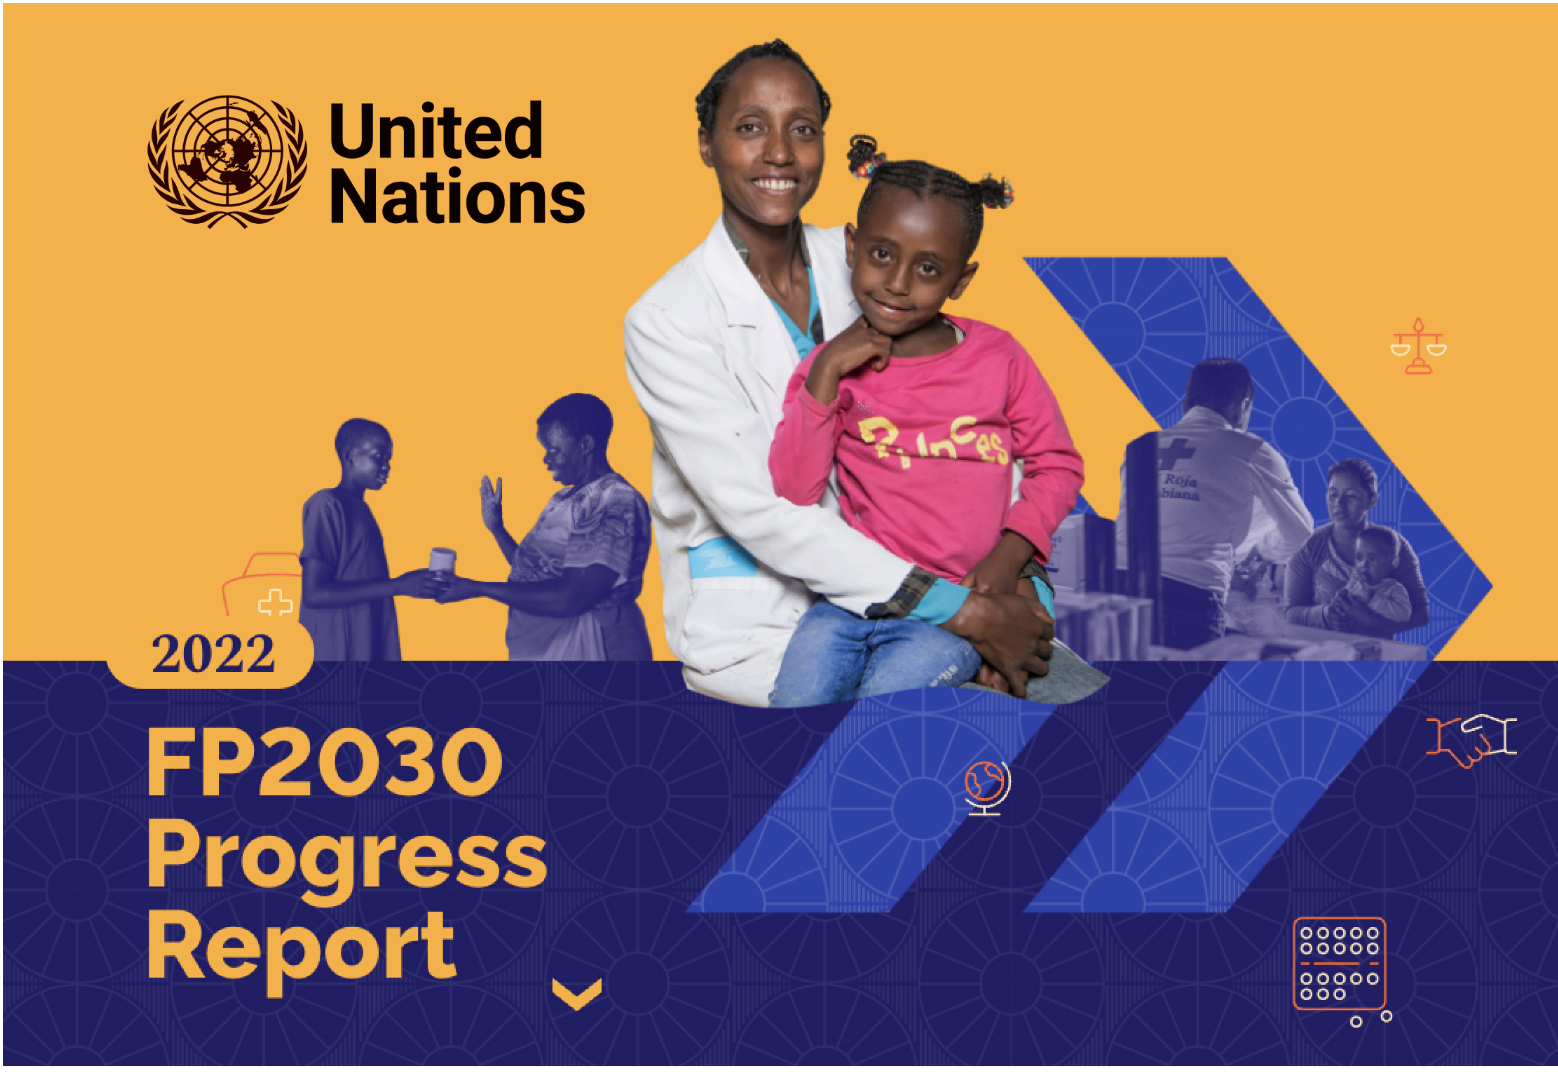
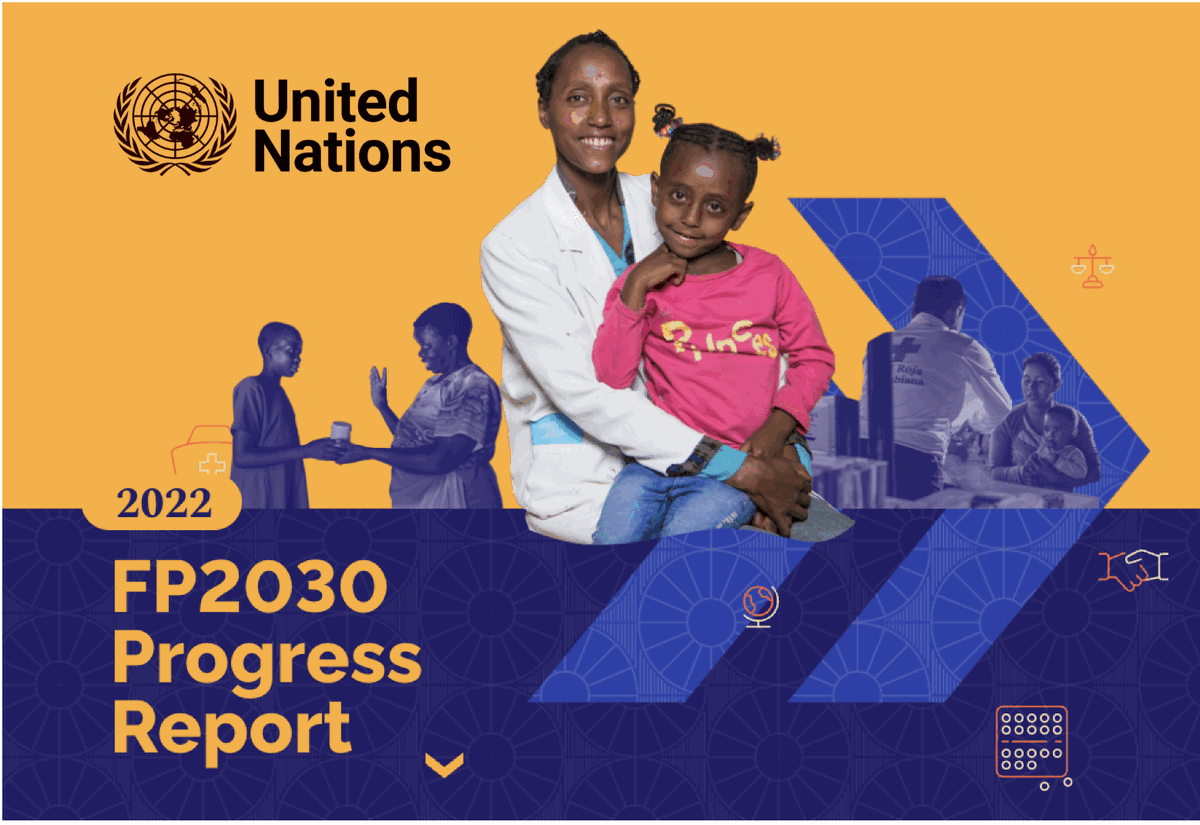
fix: compress 6 oversized images, shorten titles, fix structured data, add portfolio descriptions
Images compressed (total ~11MB savings):
- BOT cover: 5.2MB → 490KB (91% reduction)
- BOT operations: 4.0MB → 354KB (91% reduction)
- SmileForYou: 2.2MB → 255KB (88% reduction)
- MPA Online: 2.2MB → 230KB (90% reduction)
- UN FP2030: 1.5MB → 346KB (77% reduction)
- WICKIE: 1.1MB → 243KB (78% reduction)

Title fixes (all under 60 chars now):
- Homepage, webDesign, aiIntegration shortened (EN + DE)
- Berlin/Hamburg landing page titles shortened
- Fixed doubled '| Digidog | Digidog' on 2 blog posts
- Shortened Playwright MCP blog title

Structured data:
- Added image + address to ProfessionalService schema on Berlin/Hamburg pages

Portfolio meta descriptions:
- Added unique descriptions to all 22 projects in portfolio-meta.ts
- Portfolio [slug] page now uses dynamic description instead of generic fallback

Changed region(s): [[0.6167, 0.3939, 0.6475, 0.4242], [0.555, 0.5455, 0.5858, 0.5758], [0.555, 0.3939, 0.5858, 0.4242]]

diff --git a/src/lib/portfolio-meta.ts b/src/lib/portfolio-meta.ts
@@ -1,34 +1,35 @@
 /**
- * Portfolio project metadata — slug + title only.
+ * Portfolio project metadata — slug, title, description.
  * Server-safe: no figma:asset or client imports.
  * Keep in sync with PortfolioSection.tsx projects array.
  */
 export interface ProjectMeta {
   slug: string;
   title: string;
+  description: string;
 }
 
 export const projectsMeta: ProjectMeta[] = [
-  { slug: "united-nations-fp2030", title: "United Nations – FP2030" },
-  { slug: "mpa-online", title: "MPA.online Streaming Platform" },
-  { slug: "miso-supermarket", title: "Miso Supermarket & Bakery" },
-  { slug: "techvision-dashboard", title: "TechVision Dashboard" },
-  { slug: "bold-ideas", title: "Bold Ideas Movement" },
-  { slug: "bella-cucina", title: "Bella Cucina Restaurant" },
-  { slug: "smileforyou", title: "SmileforYou – Conversion Optimization" },
-  { slug: "technik-hoffmann", title: "Technik Hoffmann – Fullstack Development" },
-  { slug: "wickie-agency", title: "WICKIE – Digital Marketing Agency Redesign" },
-  { slug: "digidog-threejs", title: "Digidog – Three.js & WordPress Integration" },
-  { slug: "jobsvs-recruitment", title: "JobsVS – Recruitment Agency Website" },
-  { slug: "cibaria-italiana", title: "Cibaria Italiana – Restaurant & eCommerce" },
-  { slug: "monte-ofelio-group", title: "Monte Ofelio Group – Multi-Brand Web Strategy" },
-  { slug: "ai-jewelry-sketch", title: "AI Jewelry Sketch Automation" },
-  { slug: "fitpulse-app", title: "FitPulse Health App" },
-  { slug: "smartassist-chatbot", title: "SmartAssist AI Chatbot" },
-  { slug: "smarthome-iot", title: "SmartHome IoT Platform" },
-  { slug: "hubspot-dental-crm", title: "HubSpot CRM – Dental Clinic Chain" },
-  { slug: "beoriginaltours-operations", title: "BeOriginalTours Operations Platform" },
-  { slug: "luxe-mode", title: "Luxe Mode Online Shop" },
-  { slug: "logitrack-warehouse", title: "LogiTrack Warehouse System" },
-  { slug: "mediconnect-praxis", title: "MediConnect Practice Software" },
+  { slug: "united-nations-fp2030", title: "United Nations – FP2030", description: "Design implementation for the United Nations FP2030 Progress Report website, featuring interactive Highcharts data visualizations and parallax animations." },
+  { slug: "mpa-online", title: "MPA.online Streaming Platform", description: "Fullstack web app development for a medical education streaming platform, built with Next.js, Strapi, and MongoDB with Vimeo integration." },
+  { slug: "miso-supermarket", title: "Miso Supermarket & Bakery", description: "Modern web design and digital solution for a local supermarket with integrated online shop and ordering system." },
+  { slug: "techvision-dashboard", title: "TechVision Dashboard", description: "Complete redesign of an enterprise dashboard with modern UI/UX design and responsive layout." },
+  { slug: "bold-ideas", title: "Bold Ideas Movement", description: "Creative brand strategy and visual storytelling for an innovative startup with a dynamic web presence." },
+  { slug: "bella-cucina", title: "Bella Cucina Restaurant", description: "Elegant website with online reservation and digital menu for an upscale Italian restaurant." },
+  { slug: "smileforyou", title: "SmileforYou – Conversion Optimization", description: "Full website redesign and conversion optimization for a leading German dental clinic chain, doubling their conversion rate from 5% to 11%." },
+  { slug: "technik-hoffmann", title: "Technik Hoffmann – Fullstack Development", description: "Complex fullstack website for a German precision engineering company, featuring jQuery animations, cards view, and intricate design patterns." },
+  { slug: "wickie-agency", title: "WICKIE – Digital Marketing Agency Redesign", description: "Complete website redesign for a digital marketing agency, delivering a clean, responsive WordPress site that preserves the client's brand identity." },
+  { slug: "digidog-threejs", title: "Digidog – Three.js & WordPress Integration", description: "Resolved complex Three.js and Elementor conflicts on our agency website, implementing interactive 3D animations with SEO-optimized design." },
+  { slug: "jobsvs-recruitment", title: "JobsVS – Recruitment Agency Website", description: "Design implementation and SEO for a recruitment agency, featuring Personio API integration to automatically display job listings from the HR system." },
+  { slug: "cibaria-italiana", title: "Cibaria Italiana – Restaurant & eCommerce", description: "Elegant website with eCommerce, online reservation, and culinary course booking for an authentic Italian restaurant in Vienna." },
+  { slug: "monte-ofelio-group", title: "Monte Ofelio Group – Multi-Brand Web Strategy", description: "Dynamic multi-website strategy for an Italian food group in Vienna, enabling online reservations, worldwide product sales, and brand storytelling." },
+  { slug: "ai-jewelry-sketch", title: "AI Jewelry Sketch Automation", description: "AI automation built in Make that reads customer emails, extracts requirements, and generates custom jewelry sketches 24/7 — eliminating manual work." },
+  { slug: "fitpulse-app", title: "FitPulse Health App", description: "Mobile-first fitness platform with AI-powered training plans and real-time progress tracking." },
+  { slug: "smartassist-chatbot", title: "SmartAssist AI Chatbot", description: "Intelligent AI chatbot with NLP integration for automated customer service and lead qualification." },
+  { slug: "smarthome-iot", title: "SmartHome IoT Platform", description: "AI-controlled smart home platform with automated energy optimization and predictive maintenance." },
+  { slug: "hubspot-dental-crm", title: "HubSpot CRM – Dental Clinic Chain", description: "Enterprise HubSpot CRM implementation across a 5-branch dental clinic chain, integrating patient workflows, IVORIS API, and Make.com automation." },
+  { slug: "beoriginaltours-operations", title: "BeOriginalTours Operations Platform", description: "Automated booking, scheduling, and management platform for a European tour agency, built with Make.com, Python, MongoDB, and a custom Next.js dashboard." },
+  { slug: "luxe-mode", title: "Luxe Mode Online Shop", description: "High-end e-commerce solution with personalized recommendations and seamless checkout experience." },
+  { slug: "logitrack-warehouse", title: "LogiTrack Warehouse System", description: "Custom warehouse management software with real-time tracking, barcode scanning, and automatic reordering." },
+  { slug: "mediconnect-praxis", title: "MediConnect Practice Software", description: "Custom practice management software with appointment scheduling, digital patient records, and billing module." },
 ];

diff --git a/src/lib/blog-data.ts b/src/lib/blog-data.ts
@@ -467,7 +467,7 @@ At Digidog, we specialize in exactly this approach. We help you identify what to
   {
     slug: "playwright-mcp-server-complete-guide",
     title: "Playwright MCP Server: The Complete Setup Guide for 2026",
-    metaTitle: "Playwright MCP Server — Complete Setup & Configuration Guide 2026",
+    metaTitle: "Playwright MCP Server — Setup & Configuration Guide 2026",
     metaDescription:
       "Learn how to set up and configure Playwright MCP Server for browser automation with AI. Step-by-step guide covering installation, Claude Desktop, VS Code, Cursor, and advanced configuration.",
     excerpt:
@@ -952,7 +952,7 @@ Slack MCP is one of dozens of MCP integrations we build for mid-size companies. 
   {
     slug: "website-redesign-complete-guide",
     title: "Website Redesign: The Complete 2026 Guide (Strategy, Cost & Timeline)",
-    metaTitle: "Website Redesign Guide 2026 — Strategy, Cost & Timeline | Digidog",
+    metaTitle: "Website Redesign Guide 2026 — Strategy, Cost & Timeline",
     metaDescription:
       "Planning a website redesign? This guide covers strategy, cost breakdown, timeline, SEO migration, and the 7 signs your site needs a rebuild. Real examples from 50+ redesign projects.",
     excerpt:
@@ -1176,7 +1176,7 @@ No pitch, no pressure — just an honest assessment of where you are and what wo
   {
     slug: "supabase-mcp-server-setup-guide",
     title: "Supabase MCP Server: Complete Setup Guide for AI-Powered Database Workflows",
-    metaTitle: "Supabase MCP Server Setup Guide — Connect AI to Your Database | Digidog",
+    metaTitle: "Supabase MCP Server Setup Guide — Connect AI to Your Database",
     metaDescription:
       "Learn how to set up a Supabase MCP server to let AI agents query, insert, and manage your Postgres database. Step-by-step tutorial with real code examples.",
     excerpt:

diff --git a/src/app/de/webdesign-agentur-hamburg/page.tsx b/src/app/de/webdesign-agentur-hamburg/page.tsx
@@ -7,7 +7,7 @@ import type { Metadata } from "next";
 import WebDesignDEClient from "../../client-pages/WebDesignDEClient";
 
 export const metadata: Metadata = {
-  title: "Webdesign Agentur Hamburg — Professionelle Websites & Webentwicklung",
+  title: "Webdesign Agentur Hamburg — Websites & Webentwicklung",
   description:
     "Ihre Webdesign Agentur für Hamburg: Maßgeschneiderte Websites, moderne Webentwicklung mit React & Next.js, UX/UI Design und SEO-Optimierung. Kostenloses Erstgespräch.",
   alternates: {
@@ -29,6 +29,8 @@ const serviceSchema = {
   name: "DigiDog — Webdesign Agentur Hamburg",
   description: "Professionelle Webdesign Agentur für Hamburg. Maßgeschneiderte Websites mit React, Next.js und modernen Technologien.",
   url: "https://digidog.org/de/webdesign-agentur-hamburg",
+  image: "https://digidog.org/og-default.jpg",
+  address: { "@type": "PostalAddress", addressLocality: "Hamburg", addressCountry: "DE" },
   areaServed: { "@type": "City", name: "Hamburg", "@id": "https://www.wikidata.org/wiki/Q1055" },
   serviceType: ["Webdesign", "Webentwicklung", "UX/UI Design", "SEO"],
   priceRange: "€€",

diff --git a/src/app/de/webdesign-agentur-berlin/page.tsx b/src/app/de/webdesign-agentur-berlin/page.tsx
@@ -7,7 +7,7 @@ import type { Metadata } from "next";
 import WebDesignDEClient from "../../client-pages/WebDesignDEClient";
 
 export const metadata: Metadata = {
-  title: "Webdesign Agentur Berlin — Professionelle Websites & Webentwicklung",
+  title: "Webdesign Agentur Berlin — Websites & Webentwicklung",
   description:
     "Ihre Webdesign Agentur in Berlin: Maßgeschneiderte Websites, moderne Webentwicklung mit React & Next.js, UX/UI Design und SEO-Optimierung. Kostenloses Erstgespräch.",
   alternates: {
@@ -29,6 +29,8 @@ const serviceSchema = {
   name: "DigiDog — Webdesign Agentur Berlin",
   description: "Professionelle Webdesign Agentur in Berlin. Maßgeschneiderte Websites mit React, Next.js und modernen Technologien.",
   url: "https://digidog.org/de/webdesign-agentur-berlin",
+  image: "https://digidog.org/og-default.jpg",
+  address: { "@type": "PostalAddress", addressLocality: "Berlin", addressCountry: "DE" },
   areaServed: { "@type": "City", name: "Berlin", "@id": "https://www.wikidata.org/wiki/Q64" },
   serviceType: ["Webdesign", "Webentwicklung", "UX/UI Design", "SEO"],
   priceRange: "€€",

diff --git a/src/app/(en)/portfolio/[slug]/page.tsx b/src/app/(en)/portfolio/[slug]/page.tsx
@@ -19,7 +19,7 @@ export async function generateMetadata({
   const title = project
     ? `${project.title} – Digidog Digital Agency`
     : "Project – Digidog Digital Agency";
-  const description = "Case study and details for this Digidog project.";
+  const description = project?.description || "Case study and details for this Digidog project.";
 
   return {
     title,
